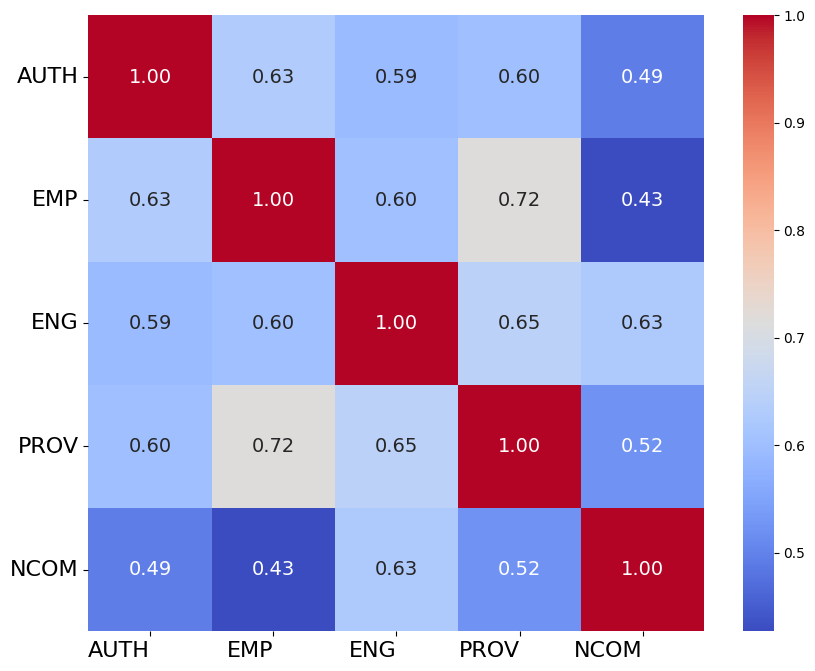
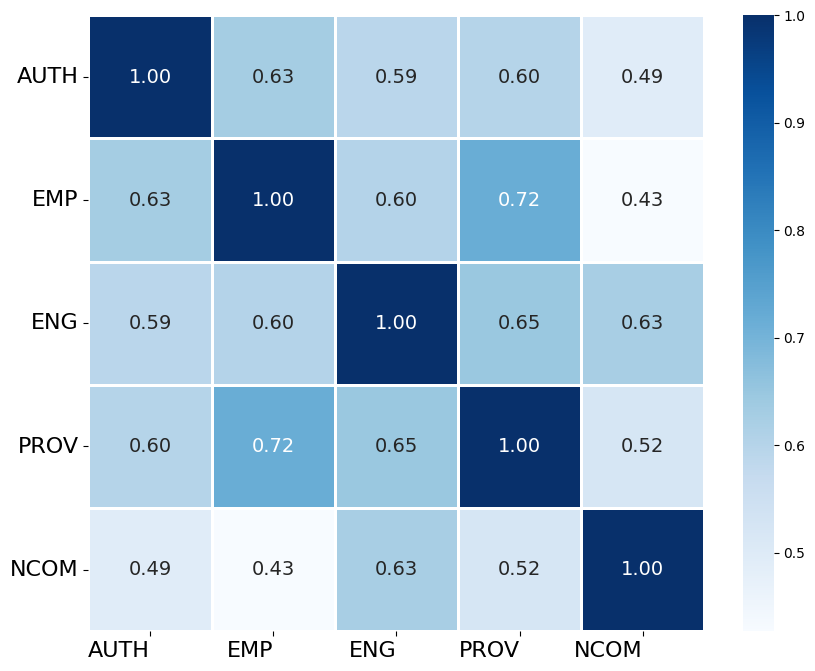
changed formatting for correlational heatmap

diff --git a/story_eval/visualize.py b/story_eval/visualize.py
@@ -128,8 +128,8 @@ def plot_component_corrs(df, title=None, save_path=None):
     correlation_matrix = df[components].corr()
     # Create the heatmap with updated labels
     plt.figure(figsize=(10, 8))
-    heatmap = sns.heatmap(correlation_matrix, annot=True, fmt=".2f", cmap='coolwarm', cbar=True, square=True,
-                        xticklabels=labels, yticklabels=labels, annot_kws={"size": 14})
+    heatmap = sns.heatmap(correlation_matrix, annot=True, fmt=".2f", cmap='Blues', cbar=True, square=True,
+                        xticklabels=labels, yticklabels=labels, annot_kws={"size": 14}, linecolor='white', linewidths=1)
 
     # Title and labels
     plt.title(title, pad=20, fontsize=20)
